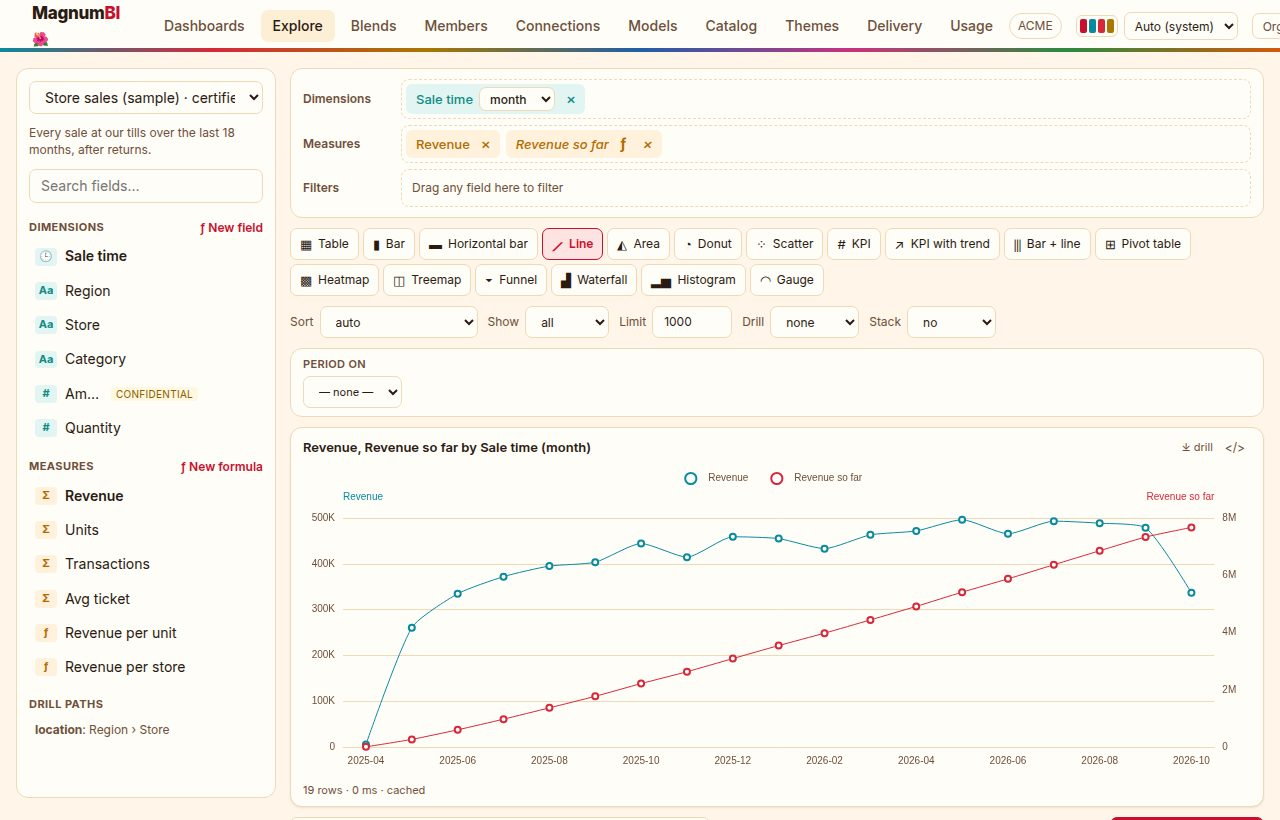
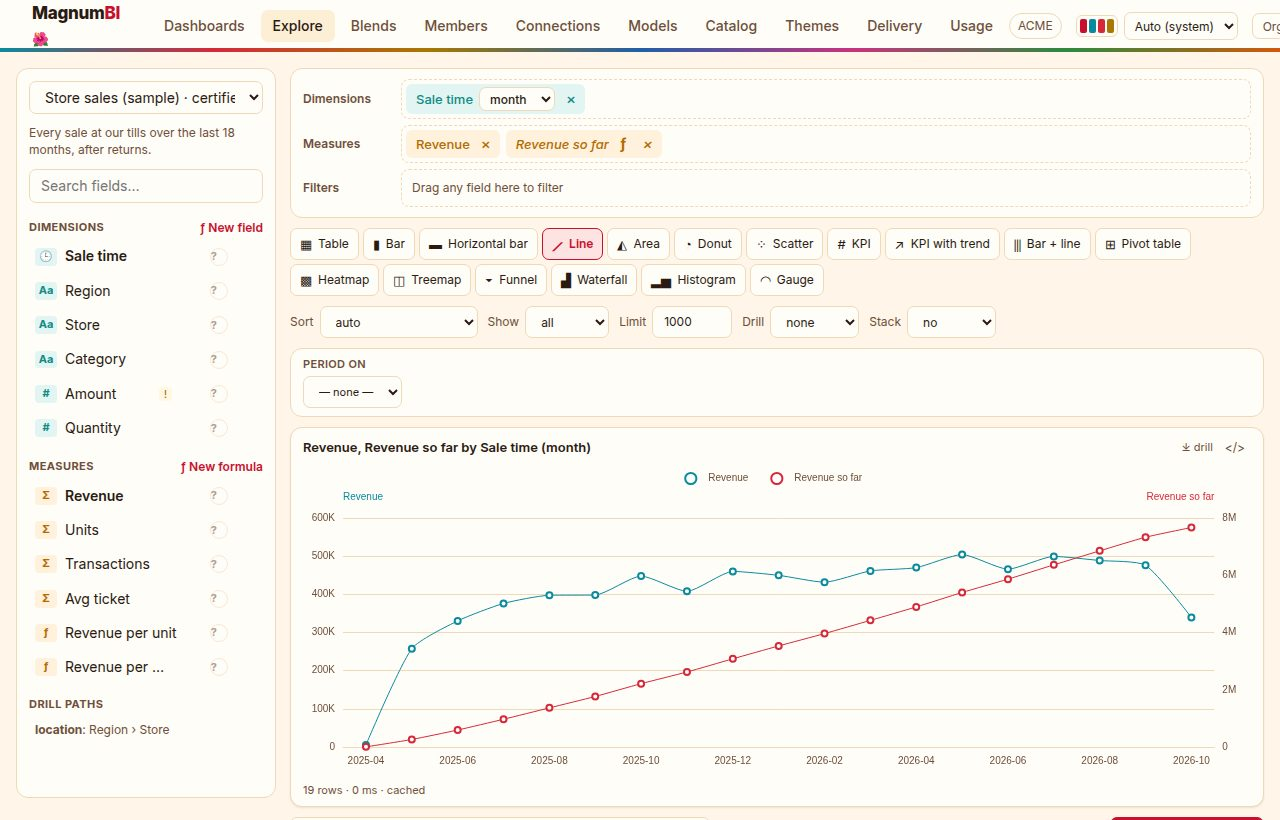
Explore: a ? next to every field explains it from the catalog
- FieldHelp: the field's kind, formula, description, other names,
  examples, tags, and its glossary terms with their definitions (the
  glossary is read the first time a panel opens); closes on Escape or a
  click elsewhere; the catalog link opens in a new tab.
- The field list: the ? in the same place on every row; sensitive fields
  marked with a compact "!" (the tags in its tooltip and the panel).
- Docs: the catalog section and a screenshot, the landing page's catalog
  row, the changelog.

diff --git a/frontend/src/components/Explorer.tsx b/frontend/src/components/Explorer.tsx
@@ -1,11 +1,12 @@
-import { useEffect, useMemo, useState } from 'react'
+import { useCallback, useEffect, useMemo, useState } from 'react'
 import type { DragEvent, ReactNode } from 'react'
 import { AGG_LABELS, api, fieldGrain, fieldLabel, fieldName, isTemporal, parseAdhoc } from '../api'
 import { useCan } from '../auth'
 import { usesResults, withFormula, withRowFields, withoutFormula } from '../formula'
 import { fieldMatches, fieldTitle, modelOption, sensitive } from '../governance'
 import { suggestChart } from '../suggest'
-import type { Aggregation, ChartType, DimType, Dimension, Filter, FilterOp, Formula, ModelInfo, Period, ChartTile, TopN, Value } from '../api'
+import type { Aggregation, ChartType, DimType, Dimension, Filter, FilterOp, Formula, GlossaryTerm, ModelInfo, Period, ChartTile, TopN, Value } from '../api'
+import FieldHelp from './FieldHelp'
 import FormulaEditor from './FormulaEditor'
 import { MultiSelect } from './FilterBar'
 import PeriodControl from './PeriodControl'
@@ -85,6 +86,14 @@ export default function Explorer({ models, initial, submitLabel, onSubmit, onCan
   const [editing, setEditing] = useState<Formula | 'new' | 'new-row' | null>(null)
   // what each per-row formula gives (from the server's check)
   const [types, setTypes] = useState<Record<string, DimType>>({})
+  // the field whose ? panel is open ("dimension:region"), and the glossary (read on the first one)
+  const [helpFor, setHelpFor] = useState<string | null>(null)
+  const [glossary, setGlossary] = useState<GlossaryTerm[] | null>(null)
+  const toggleHelp = (key: string) => {
+    setHelpFor(h => (h === key ? null : key))
+    if (glossary === null) api.glossary().then(r => setGlossary(r.terms), () => setGlossary([]))
+  }
+  const closeHelp = useCallback(() => setHelpFor(null), [])
   const can = useCan()
 
   const base = models.find(m => m.name === modelName)
@@ -221,9 +230,13 @@ export default function Explorer({ models, initial, submitLabel, onSubmit, onCan
         {model?.dimensions.filter(d => fieldMatches(d, search)).map(d => (
           <FieldItem key={d.name} field={{ kind: 'dimension', name: d.name }} label={fieldLabel(model, d.name)}
             icon={d.formula ? 'ƒ' : TYPE_ICON[d.type]} onAdd={add} used={dims.some(x => fieldName(x) === d.name)}
+            onHelp={() => toggleHelp(`dimension:${d.name}`)}
+            help={helpFor === `dimension:${d.name}` && <FieldHelp field={d} kind="dimension" glossary={glossary} onClose={closeHelp} />}
             title={fieldTitle(d)}
             extra={<>
-              {sensitive(d.tags).map(t => <span key={t} className="tag-mark" title={`Tagged ${t}: take care with this data`}>{t}</span>)}
+              {sensitive(d.tags).length > 0 && (
+                <span className="tag-mark" title={`Tagged ${sensitive(d.tags).join(', ')}: take care with this data`}>!</span>
+              )}
               {isCountable(d) && (
                 <button className="add" title={`Add as a number (${AGG_LABELS[defaultAgg(d)]}); the aggregation can be changed`}
                   onClick={() => setMeasures(ms => (ms.includes(adhocRef(d)) ? ms : [...ms, adhocRef(d)]))}>Σ</button>
@@ -242,6 +255,8 @@ export default function Explorer({ models, initial, submitLabel, onSubmit, onCan
         {model?.measures.filter(m => fieldMatches(m, search)).map(m => (
           <FieldItem key={m.name} field={{ kind: 'measure', name: m.name }} label={fieldLabel(model, m.name)}
             icon={m.type === 'formula' ? 'ƒ' : 'Σ'} onAdd={add} used={measures.includes(m.name)}
+            onHelp={() => toggleHelp(`measure:${m.name}`)}
+            help={helpFor === `measure:${m.name}` && <FieldHelp field={m} kind="measure" glossary={glossary} onClose={closeHelp} />}
             title={fieldTitle(m)}
             extra={m.shared && can('manage_members') ? (
               <button className="add" title="Edit this shared formula" onClick={() => setEditing(asFormula(m, false, m.format))}>✎</button>
@@ -421,16 +436,25 @@ function TopControl({ top, dims, measures, label, onChange }: {
   )
 }
 
-function FieldItem({ field, label, icon, title, onAdd, used, extra }: { field: Field; label: string; icon: string; title?: string; onAdd: (f: Field) => void; used: boolean; extra?: ReactNode }) {
-  return (
+function FieldItem({ field, label, icon, title, onAdd, used, extra, onHelp, help }: {
+  field: Field; label: string; icon: string; title?: string; onAdd: (f: Field) => void; used: boolean; extra?: ReactNode
+  /** the ? button: what the catalog says about the field (`help`: the open panel) */
+  onHelp?: () => void; help?: ReactNode
+}) {
+  return <>
     <div className={`field-item ${field.kind}${used ? ' used' : ''}`} draggable title={title ?? 'Drag to a shelf, or double-click to add'}
       onDragStart={e => { e.dataTransfer.setData(DRAG_MIME, JSON.stringify(field)); e.dataTransfer.effectAllowed = 'copy' }}
       onDoubleClick={() => onAdd(field)}>
       <span className="ficon">{icon}</span><span className="flabel">{label}</span>
       {extra}
+      {onHelp && (
+        <button className={`field-help-btn${help ? ' open' : ''}`} aria-label={`What ${label} means`} aria-expanded={Boolean(help)}
+          title="What it means" onClick={onHelp} onDoubleClick={e => e.stopPropagation()}>?</button>
+      )}
       <button className="add" onClick={() => onAdd(field)} title="Add">+</button>
     </div>
-  )
+    {help}
+  </>
 }
 
 function Shelf({ label, drop, empty, children }: { label: string; drop: object; empty: string; children: ReactNode }) {

diff --git a/frontend/src/components/FieldHelp.tsx b/frontend/src/components/FieldHelp.tsx
@@ -1,0 +1,56 @@
+import { useEffect, useRef } from 'react'
+import { Link } from 'react-router-dom'
+import type { Dimension, GlossaryTerm, Measure } from '../api'
+import { definitions } from '../governance'
+
+type Props = {
+  field: (Dimension | Measure) & { formula?: string | null }
+  kind: 'dimension' | 'measure'
+  /** null: still loading */
+  glossary: GlossaryTerm[] | null
+  onClose: () => void
+}
+
+const TYPES: Record<string, string> = {
+  string: 'Text', number: 'Number', boolean: 'Yes / no', date: 'Date', time: 'Date and time', datetime: 'Date and time',
+}
+
+/** What the catalog says about a field: its meaning, other names, examples, terms and tags. */
+export default function FieldHelp({ field, kind, glossary, onClose }: Props) {
+  const panel = useRef<HTMLDivElement>(null)
+  // closes on Escape, or a click anywhere else
+  useEffect(() => {
+    const key = (e: KeyboardEvent) => { if (e.key === 'Escape') onClose() }
+    const click = (e: MouseEvent) => {
+      const t = e.target as HTMLElement
+      if (!panel.current?.contains(t) && !t.closest('.field-help-btn')) onClose()
+    }
+    document.addEventListener('keydown', key)
+    document.addEventListener('mousedown', click)
+    return () => { document.removeEventListener('keydown', key); document.removeEventListener('mousedown', click) }
+  }, [onClose])
+  const what = kind === 'measure' ? 'Measure' : `${TYPES[(field as Dimension).type] ?? 'Field'} field`
+  const terms = definitions(field.terms, glossary ?? [])
+  return (
+    <div ref={panel} className="field-help" role="dialog" aria-label={`About ${field.label ?? field.name}`}>
+      <div className="field-help-head">
+        <b>{field.label ?? field.name}</b>
+        <span className="muted small">{what} · <span className="mono">{field.name}</span></span>
+      </div>
+      {field.formula && <p className="mono small">= {field.formula}</p>}
+      {field.description ? <p>{field.description}</p> : <p className="muted">No description yet.</p>}
+      {!!field.synonyms?.length && <p className="small"><b>Also called:</b> {field.synonyms.join(', ')}</p>}
+      {!!field.examples?.length && <p className="small"><b>For example:</b> {field.examples.join('; ')}</p>}
+      {terms.length > 0 && (
+        <div className="small">
+          <b>Glossary</b>
+          {terms.map(t => (
+            <p key={t.name} className="term"><i>{t.name}</i>{glossary === null ? '' : t.definition ? `: ${t.definition}` : ' (no longer in the glossary)'}</p>
+          ))}
+        </div>
+      )}
+      {!!field.tags?.length && <p>{field.tags.map(t => <span key={t} className="tp-badge">{t}</span>)}</p>}
+      <p className="small"><Link to="/catalog" target="_blank" rel="noopener">Open the catalog</Link></p>
+    </div>
+  )
+}

diff --git a/website/docs.html b/website/docs.html
@@ -360,7 +360,8 @@ measures:
           <p>The status shows next to the model in Explore's model picker. A deprecated model also shows its note there, and a warning on every dashboard that uses it.</p>
           <p><strong>Documentation</strong> (for the model's stewards, its owner and Org admins) edits the description and tags of the model, and of each field its description, other names, examples, tags and glossary terms. A description written here replaces the model's own for your organisation; other names and tags add to it.</p>
           <figure class="shot"><a href="assets/screens/catalog-docs.jpg"><img src="assets/screens/catalog-docs.jpg" alt="A model's documentation: its description and tags, and for each field a description, other names, examples, tags and glossary terms" width="713" height="985" loading="lazy"></a><figcaption>Documenting the sample sales model.</figcaption></figure>
-          <p>In Explore, a field's tooltip shows what it means, its other names, examples, terms and tags; the field search finds it by its other names too (search for "takings" and Revenue comes up); fields tagged <code>pii</code>, <code>personal</code>, <code>confidential</code> or <code>restricted</code> are marked.</p>
+          <p>In Explore, the <strong>?</strong> next to every field opens what the catalog says about it: its meaning, other names, examples, tags, and the glossary terms it implements with their definitions. The field search finds fields by their other names too (search for "takings" and Revenue comes up), and fields tagged <code>pii</code>, <code>personal</code>, <code>confidential</code> or <code>restricted</code> are marked with a <strong>!</strong>.</p>
+          <figure class="shot"><a href="assets/screens/field-help.jpg"><img src="assets/screens/field-help.jpg" alt="Explore's field list with the panel of the Revenue field open: its description, other names, an example, its glossary term and a tag" width="260" height="730" loading="lazy"></a><figcaption>What Revenue means, one click away.</figcaption></figure>
           <p>The <strong>Glossary</strong>, at the bottom of the Catalog, holds the organisation's business terms, each with the fields that implement it.</p>
           <p><strong>Search</strong>, at the top of the Catalog, finds models, fields, glossary terms and dashboards by their names, the other words people use for them, their tags and their descriptions: "takings" finds Revenue.</p>
           <figure class="shot"><a href="assets/screens/catalog-search.jpg"><img src="assets/screens/catalog-search.jpg" alt="Searching the catalog for takings finds the Revenue field" width="713" height="88" loading="lazy"></a><figcaption>Found by another word for it.</figcaption></figure>

diff --git a/frontend/src/governance.test.ts b/frontend/src/governance.test.ts
@@ -1,5 +1,5 @@
 import { describe, expect, it } from 'vitest'
-import { deprecatedIn, describeUsage, fieldMatches, fieldTitle, modelOption, mayDecide, mayHandOver, parseList, sensitive } from './governance'
+import { definitions, deprecatedIn, describeUsage, fieldMatches, fieldTitle, modelOption, mayDecide, mayHandOver, parseList, sensitive } from './governance'
 import type { ModelInfo } from './api'
 
 const model = (name: string, status: string | null, note: string | null = null) => ({
@@ -56,5 +56,17 @@ describe('governance', () => {
     expect(describeUsage({ days: 30, queries: 42, people: 5, last: '2026-10-20T09:00:00Z' })).toBe('42 queries by 5 people in the last 30 days')
     expect(describeUsage({ days: 30, queries: 1, people: 1, last: null })).toBe('1 query by 1 person in the last 30 days')
     expect(describeUsage({ days: 30, queries: 0, people: 0, last: null })).toBe('Not queried in the last 30 days')
+  })
+
+  it('finds the glossary definitions of a field\'s terms', () => {
+    const glossary = [
+      { name: 'Net revenue', definition: 'After discounts and returns' },
+      { name: 'Store', definition: 'A shop with its own till' },
+    ]
+    expect(definitions(['net revenue', 'Churn'], glossary)).toEqual([
+      { name: 'Net revenue', definition: 'After discounts and returns' },
+      { name: 'Churn', definition: null },
+    ])
+    expect(definitions(undefined, glossary)).toEqual([])
   })
 })

diff --git a/frontend/src/index.css b/frontend/src/index.css
@@ -494,3 +494,15 @@ label.check.inline { align-items: center; gap: 4px; }
 .search-results { list-style: none; padding: 0; margin: 0 0 14px; display: flex; flex-direction: column; gap: 8px; }
 .lineage { border-top: 1px solid var(--border); margin-top: 8px; padding-top: 8px; }
 .lineage p { margin: 0 0 4px; }
+
+/* Explore: the ? next to a field, and what the catalog says about it (FieldHelp.tsx) */
+.field-help-btn { border: 1px solid var(--border); background: var(--surface); color: var(--text-muted); border-radius: 999px;
+  width: 18px; height: 18px; min-height: 0; padding: 0; font-size: 11px; font-weight: 700; line-height: 1; flex: none; opacity: .55; }
+.field-item:hover .field-help-btn, .field-help-btn:focus-visible, .field-help-btn.open { opacity: 1; }
+.field-help-btn.open { background: var(--accent-soft); color: var(--accent); border-color: var(--accent); }
+.field-help { margin: 2px 0 8px 26px; padding: 10px 12px; border: 1px solid var(--border); border-radius: 10px; background: var(--surface);
+  box-shadow: var(--shadow); font-size: 13px; display: flex; flex-direction: column; gap: 6px; }
+.field-help p { margin: 0; }
+.field-help-head { display: flex; flex-direction: column; }
+.field-help .term { margin: 2px 0 0; }
+.field-help .tp-badge { margin-right: 4px; }

diff --git a/frontend/src/governance.ts b/frontend/src/governance.ts
@@ -63,3 +63,11 @@ export function describeUsage(u: { days: number; queries: number; people: number
   const n = (x: number, one: string, many: string) => `${x} ${x === 1 ? one : many}`
   return `${n(u.queries, 'query', 'queries')} by ${n(u.people, 'person', 'people')} in the last ${u.days} days`
 }
+
+/** A field's glossary terms with their definitions (null: no longer in the glossary). */
+export function definitions(terms: string[] | undefined, glossary: { name: string; definition: string }[]) {
+  return (terms ?? []).map(t => {
+    const found = glossary.find(g => g.name.toLowerCase() === t.toLowerCase())
+    return { name: found?.name ?? t, definition: found?.definition ?? null }
+  })
+}

diff --git a/website/index.html b/website/index.html
@@ -215,6 +215,7 @@
           <ul class="checks">
             <li>Certified, draft or deprecated, with the reason, wherever the data appears</li>
             <li>A shared glossary, and search that knows your words ("takings" finds Revenue)</li>
+            <li>A <b>?</b> next to every field says what it means, right where you build charts</li>
             <li>See where each number is used before you change it</li>
           </ul>
         </div>

diff --git a/CHANGELOG.md b/CHANGELOG.md
@@ -21,6 +21,8 @@ What changed in each release of Magnum BI. Versions follow the Docker image and 
   other words and description (agents: MCP `search_catalog`). Each model's lineage shows what it
   reads, the dashboards, tiles, reports, blends and shared formulas using it, each field's uses
   (and the fields no dashboard uses), and its queries in the last 30 days.
+- **What a field means, in Explore:** a **?** next to every field opens its catalog entry
+  (description, other names, examples, tags, and its glossary terms with their definitions).
 
 ## 0.1.5 (2026-10-20)
 
